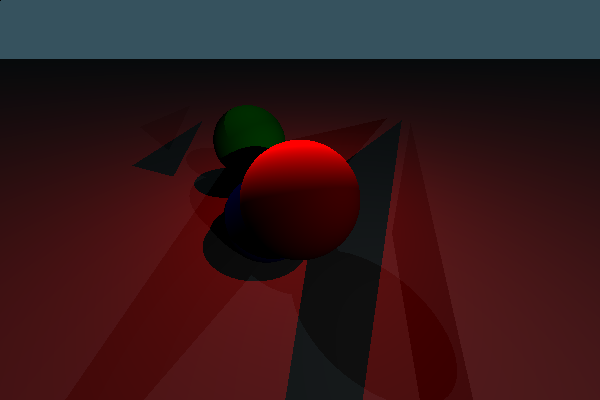
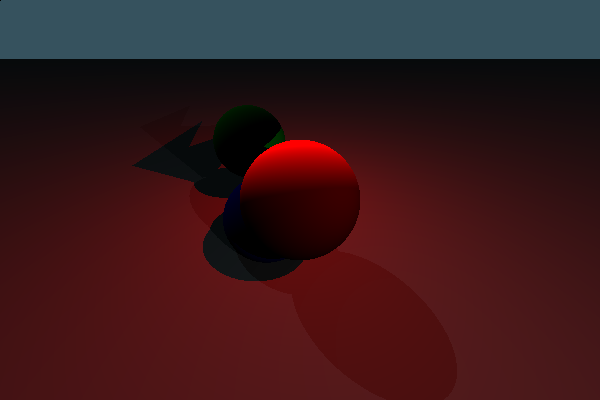
Other positions for tests

Changed region(s): [[0.45, 0.3, 0.69, 1.0], [0.27, 0.27, 0.48, 0.45]]

diff --git a/src/main.rs b/src/main.rs
@@ -22,9 +22,9 @@ fn render_multiple_scenes() {
         Element::Plane(Plane::new()),
         Element::Triangle(Triangle::new_defined()),
         Element::Triangle(Triangle::new(
-            [Vector3::new(1.0, 3.0, 2.0),
-            Vector3::new(12.0, 5.0, 2.0),
-            Vector3::new(-6.0, 4.0, -4.0)],
+            [Vector3::new(0.0, 0.0, 0.0),
+            Vector3::new(0.0, 5.0, 0.0),
+            Vector3::new(5.0, 0.0, 5.0)],
             Colors::BLUE.value(),
             0.8
         ))
